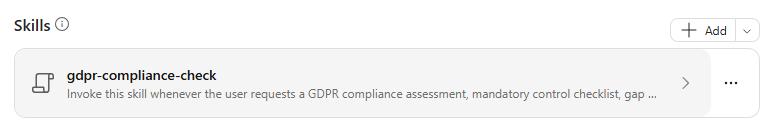
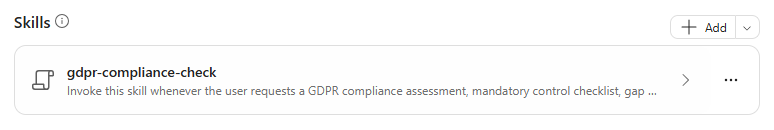
GDPR Compliance Monitor: generic suggested prompts and example screenshots

diff --git a/docs/lv1/gdpr-compliance-monitor/lab-guide.md b/docs/lv1/gdpr-compliance-monitor/lab-guide.md
@@ -98,7 +98,7 @@ Per aggiungerla all'agente:
 
 	![Skill](assets/Skill.png)
 
-4. Provare nel pannello di anteprima una richiesta che dovrebbe attivare la skill, ad esempio `Applica la checklist GDPR a un nuovo trattamento e identifica obblighi, evidenze mancanti e rischi.`
+4. Provare nel pannello di anteprima una richiesta che dovrebbe attivare la skill, ad esempio `Quali obblighi GDPR si applicano quando si avvia un nuovo trattamento di dati personali?`
 
 !!! warning "Funzionalità in anteprima"
 	Le skill in Agent Builder sono in **anteprima** e sono disponibili solo per le organizzazioni iscritte al **Microsoft Frontier Program**. Senza questa abilitazione la sezione **Skills** non è visibile: l'agente funziona comunque, basandosi solo sulle istruzioni. Per maggiori informazioni, consultare la [documentazione ufficiale](https://learn.microsoft.com/microsoft-365/copilot/extensibility/agent-builder-add-skills).
@@ -112,12 +112,12 @@ Nella sezione finale della configurazione premere `Add a suggested prompt` e ins
 
 | Title | Message |
 |---|---|
-| `Avvia assessment GDPR` | `Avvia una valutazione completa GDPR della mia organizzazione usando la checklist obbligatoria e il documento ufficiale GDPR della knowledge base.` |
-| `Valuta un trattamento` | `Applica la checklist GDPR a un nuovo trattamento e identifica obblighi, evidenze mancanti e rischi.` |
-| `Controlla una DPIA` | `Verifica se la documentazione DPIA è completa e indica gap, rischi residui e azioni correttive.` |
-| `Analizza data breach` | `Valuta un incidente privacy con la checklist GDPR e indica documentazione, notifiche ed escalation necessarie.` |
-| `Crea remediation plan` | `Trasforma i rilievi GDPR in un piano di remediation prioritizzato con responsabili e scadenze.` |
-| `Verifica fornitori` | `Controlla la conformità GDPR di un responsabile esterno, inclusi contratto, sub-responsabili e trasferimenti.` |
+| `Obblighi GDPR` | `Quali sono i principali obblighi del GDPR per un'organizzazione? Crea una checklist con gli articoli di riferimento.` |
+| `Valuta un trattamento` | `Quali obblighi GDPR si applicano quando si avvia un nuovo trattamento di dati personali?` |
+| `Controlla una DPIA` | `Quando è obbligatoria una DPIA e quali contenuti minimi deve avere secondo il GDPR?` |
+| `Analizza data breach` | `Come si gestisce un data breach secondo il GDPR? Indica notifiche, tempistiche e documentazione necessarie.` |
+| `Crea remediation plan` | `Crea un modello di piano di remediation GDPR con priorità, responsabili e scadenze.` |
+| `Verifica fornitori` | `Cosa deve prevedere il contratto con un responsabile del trattamento secondo il GDPR, inclusi sub-responsabili e trasferimenti?` |
 
 ## Test e condivisione
 

diff --git a/docs/lv1/gdpr-compliance-monitor/index.md b/docs/lv1/gdpr-compliance-monitor/index.md
@@ -48,22 +48,24 @@ Questo approccio permette di:
 
 **Richiesta utente**
 
-`Avvia una valutazione completa GDPR della mia organizzazione usando la checklist obbligatoria e il documento ufficiale GDPR della knowledge base.`
+`Quali sono i principali obblighi del GDPR per un'organizzazione? Crea una checklist con gli articoli di riferimento.`
 
 **Comportamento dell'agente**
 
-1. Chiede il perimetro minimo: organizzazione o processo, giurisdizione, trattamenti, documenti disponibili e periodo di verifica
-2. Applica la checklist obbligatoria alle aree applicabili (registro dei trattamenti, basi giuridiche, diritti, responsabili, trasferimenti, DPIA, sicurezza, data breach…)
-3. Per ogni controllo riporta stato, evidenza, riferimento normativo, gap, rischio e azione correttiva
-4. Chiude con sintesi, percentuale di completamento, rischi principali, piano di remediation ed evidenze ancora da raccogliere
+![Risposta1](assets/Answer1.png)
+
+1. Individua le aree di controllo applicabili (governance, registro dei trattamenti, basi giuridiche, informative, diritti, responsabili, sicurezza, data breach, DPIA, DPO, trasferimenti, conservazione)
+2. Le presenta come checklist, con l'articolo di riferimento del GDPR per ciascuna area
+3. In assenza di evidenze, segna ogni controllo come *Da verificare* e non come conforme
+4. Chiude con le azioni prioritarie e le evidenze da raccogliere, indicando i punti da far validare al DPO
 
 Altri esempi:
 
-- `Applica la checklist GDPR a un nuovo trattamento e identifica obblighi, evidenze mancanti e rischi.`
-- `Verifica se la documentazione DPIA è completa e indica gap, rischi residui e azioni correttive.`
-- `Valuta un incidente privacy con la checklist GDPR e indica documentazione, notifiche ed escalation necessarie.`
-- `Trasforma i rilievi GDPR in un piano di remediation prioritizzato con responsabili e scadenze.`
-- `Controlla la conformità GDPR di un responsabile esterno, inclusi contratto, sub-responsabili e trasferimenti.`
+- `Quali obblighi GDPR si applicano quando si avvia un nuovo trattamento di dati personali?`
+- `Quando è obbligatoria una DPIA e quali contenuti minimi deve avere secondo il GDPR?`
+- `Come si gestisce un data breach secondo il GDPR? Indica notifiche, tempistiche e documentazione necessarie.`
+- `Crea un modello di piano di remediation GDPR con priorità, responsabili e scadenze.`
+- `Cosa deve prevedere il contratto con un responsabile del trattamento secondo il GDPR, inclusi sub-responsabili e trasferimenti?`
 
 ## Get started
 → **[Apri la guida tecnica](lab-guide.md)**
